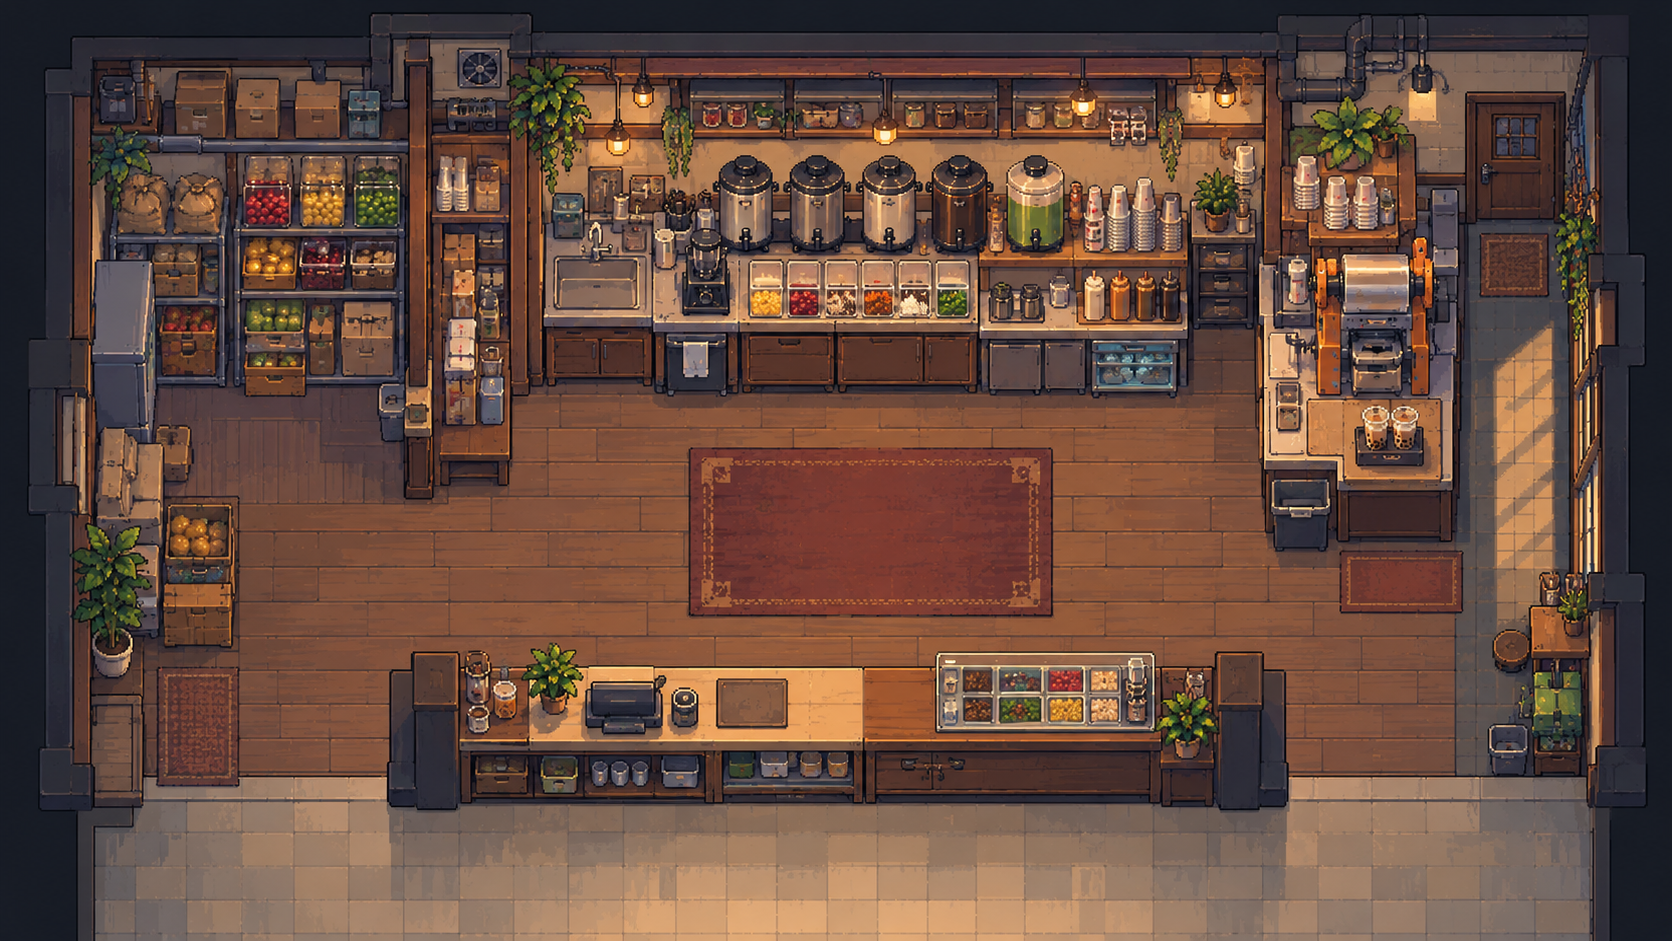
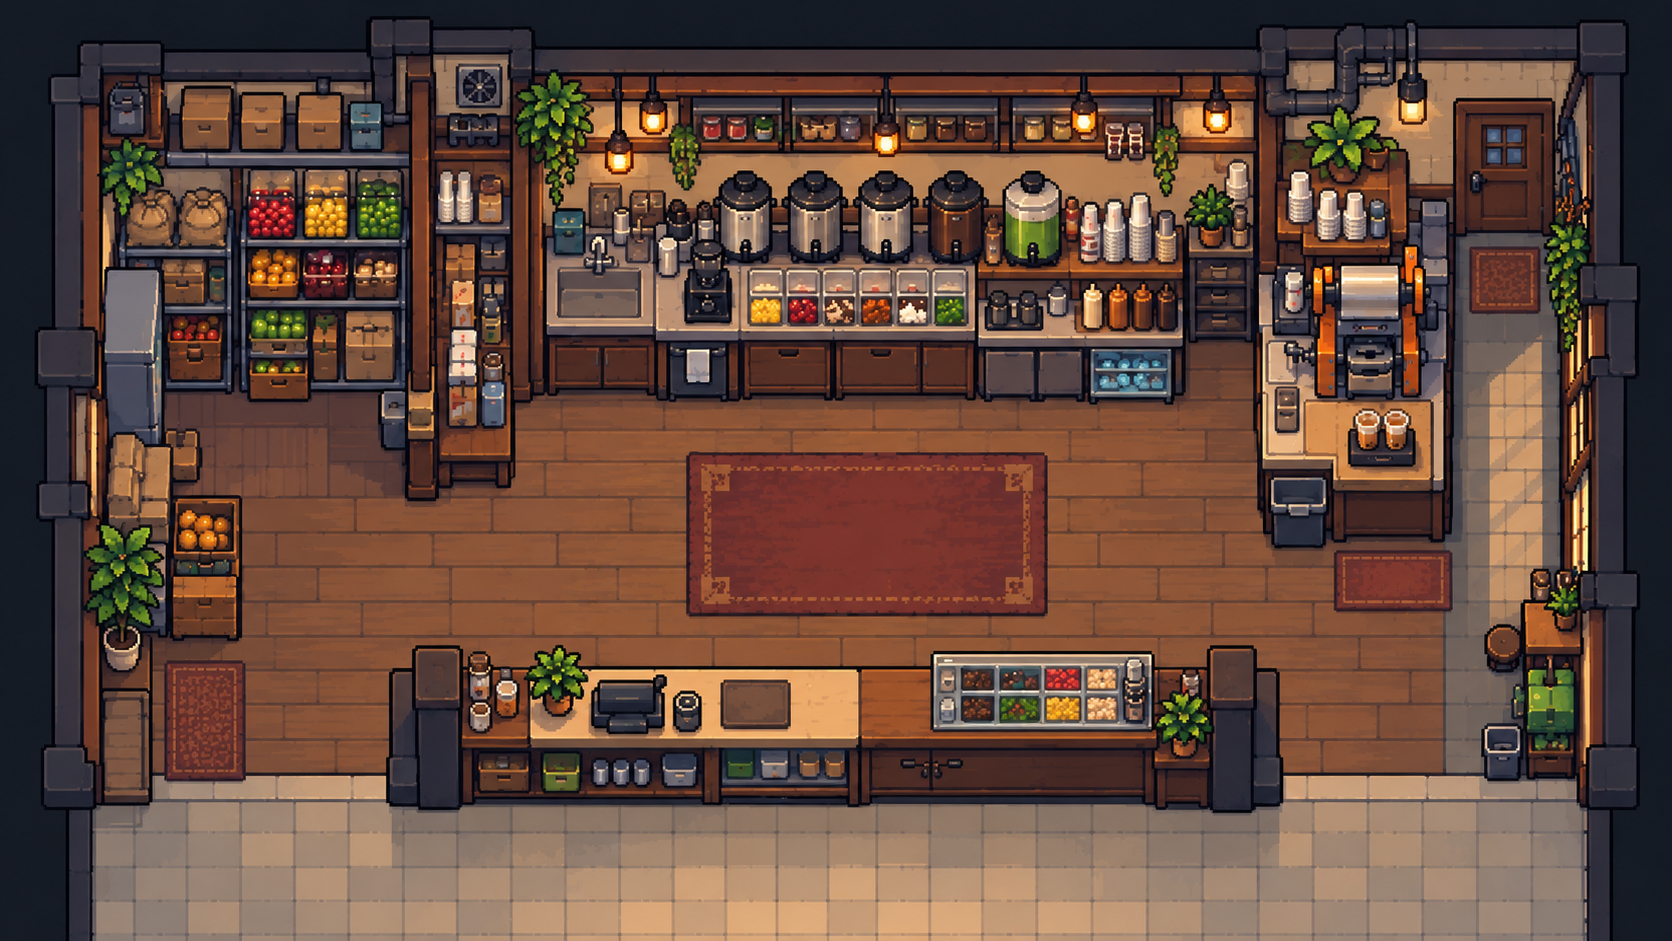
feat: update shop background and add bounded player follow camera

diff --git a/docs/milk_tea_mvp.md b/docs/milk_tea_mvp.md
@@ -1,6 +1,6 @@
 # 奶茶店 MVP
 
-Godot 4.7.2，运行 `src/core/main.tscn`（F6 或 F5）。沿用现有背景 `assets/map/milkTea/milkTea.png` 和 goblin 角色；未重新生成图片。
+Godot 4.7.2，运行 `src/core/main.tscn`（打开主场景后 F6，或直接 F5）。背景 `assets/map/milkTea/milkTea.png` 已替换为用户于 2026-10-16 提供的 1672 × 941 PNG；角色使用用户提供的四向精灵图，均直接保存原始附件，未重新生成图片。
 
 - WASD / 方向键：八方向移动，斜向不加速。
 - 左上仓库、上方制作台、下方订单板：靠近金色标记显示「按 E 交互」，E 打开对应信息界面。
@@ -9,14 +9,15 @@ Godot 4.7.2，运行 `src/core/main.tscn`（F6 或 F5）。沿用现有背景 `a
 
 ## 结构与坐标
 
-- `src/levels/milkTea/milk_tea_shop.tscn`：背景、出生点、固定全景镜头、15 个实体碰撞形状、三个交互组件实例。由 Godot MCP 创建并保存，可直接在编辑器中修改。
-- `src/gameplay/player/shop_player.*`：独立角色，`CharacterBody2D` 的 Floating 模式和 `move_and_slide()`。脚部圆形碰撞体；身体在脚部上方绘制。
+- `src/levels/milkTea/milk_tea_shop.tscn`：背景、出生点、15 个实体碰撞形状、三个交互组件实例，可直接在编辑器中修改。`get_world_bounds()` 提供背景世界范围；四面外墙在初始化时按图片尺寸与 `boundary_insets`（左、上、右、下）同步，并封闭底部侧墙缺口。
+- `src/gameplay/player/shop_player.*`：独立角色，`CharacterBody2D` 的 Floating 模式和 `move_and_slide()`。脚部横向胶囊碰撞体为 34 × 20 世界像素；显示缩放为 0.4，角色约 110 像素高，与门、柜台比例相符。四向动画说明见 [玩家素材说明](../assets/characters/player/README.md)。
+- `src/gameplay/player/bounded_follow_camera.gd`：角色子节点上的跟随相机，位置平滑速度为 8，默认缩放 0.75。由主场景注入背景世界范围；限制屏幕四边，窗口变宽或变高时自动提高最小缩放，避免视野超过背景。
 - `src/gameplay/interaction/interaction_point.*`：复用 `Area2D`，导出地点 ID、名称、说明；通过 `availability_changed` 和 `interacted` 信号通知协调组件。
 - `src/gameplay/interaction/shop_interaction.gd`：选择最近可交互地点，处理 E，并协调角色与 UI。新增地点可实例化组件，通过 `MilkTeaShop.get_interaction_points()` 自动接入。
 - `src/UI/milk_tea/shop_ui.*`：显示提示与信息弹窗，通过 `closed` 信号恢复角色。提示挂到 HudLayer，弹窗挂到 PopupLayer。
 - `MainGame` 装配依赖；保留原洞穴初始化分支，正式关卡不依赖调试组件。
 
-场景坐标以背景左上角为原点，1 世界单位 = 1 背景像素，图片 1672 × 941。镜头居中缩放到 640 × 360 的逻辑视口。碰撞覆盖墙体、柜台、货架、箱子和设备可见区域；背景仍为单张图片，不涉及 TileMap 格子或布局导入。物理层 1 = 环境、2 = 玩家，交互 Area 仅检测玩家层。
+场景坐标以背景左上角为原点，1 世界单位 = 1 背景像素，图片 1672 × 941。640 × 360 逻辑视口默认显示约 853 × 480 的世界范围，镜头随玩家移动并在背景边缘停止。碰撞覆盖墙体、柜台、货架、箱子和设备可见区域；顶部边界留出角色头部余量，角色完整图像保持在背景内。背景仍为单张图片，不涉及 TileMap 格子或布局导入。物理层 1 = 环境、2 = 玩家，交互 Area 仅检测玩家层。
 
 中文使用 SystemFont，优先 Microsoft YaHei / Noto Sans CJK SC；移植到没有中文系统字体的平台时需要随包提供中文字体。
 
@@ -24,15 +25,21 @@ Godot 4.7.2，运行 `src/core/main.tscn`（F6 或 F5）。沿用现有背景 `a
 
 ```powershell
 godot --headless --path . --script res://tests/verify_milk_tea_shop.gd
+godot --headless --path . --script res://tests/verify_player.gd
+godot --headless --path . --script res://tests/verify_shop_camera.gd
 ```
 
 验证实际输入移动、斜向速度、15 处物理碰撞、持续顶住柜台、基于实际物理空间的三个地点可达性、E 打开三个 UI、标题匹配、Esc 关闭、弹窗锁定移动和离开范围。渲染环境可追加 `-- --capture`，将场景和订单弹窗截图保存到 `.godot/milk_tea_verification/`。
 
-手动验收：从地毯走向三个金色标记，检查提示、E 打开内容、Esc / 按钮关闭；持续朝货架、制作设备、柜台和外墙移动，应被阻挡且可沿边滑动。
+相机测试覆盖跟随、平滑过程中四角限制、角色全图不越界、底部绕墙缺口、宽屏/竖屏尺寸变化，以及关卡平移后的世界坐标。渲染环境追加 `-- --capture` 可保存 `follow_camera.png`。
+
+手动验收：F5 从地毯走向三个金色标记，检查提示、E 打开内容、Esc / 按钮关闭；持续朝货架、制作设备、柜台和四侧外墙移动，应被阻挡且可沿边滑动。走动时镜头平滑跟随，接近四边后停止，不出现图片外的空白；改变窗口比例也应保持视野在背景内。
 
 ## 关键官方文档（4.7）
 
 - [CharacterBody2D](https://docs.godotengine.org/en/4.7/classes/class_characterbody2d.html)：俯视角使用 `MOTION_MODE_FLOATING`；在物理帧设置 velocity，再调用 `move_and_slide()`，无需再次乘 delta。
+- [Camera2D](https://docs.godotengine.org/en/4.7/classes/class_camera2d.html)：通过 `limit_*` 限制屏幕边缘；使用节点位置调整构图，保持 `offset` 为零以免越过限制；设置限制与出生点后重置平滑。
+- [Sprite2D.get_rect](https://docs.godotengine.org/en/4.7/classes/class_sprite2d.html#class-sprite2d-method-get-rect)：读取背景局部矩形并转换至世界坐标，供相机与边界初始化使用。
 - [Input.get_vector](https://docs.godotengine.org/en/4.7/classes/class_input.html#class-input-method-get-vector)：四个 InputMap action 产生长度不超过 1 的移动向量。
 - [Area2D](https://docs.godotengine.org/en/4.7/classes/class_area2d.html)：使用 body_entered / body_exited 信号，检测遵循 collision_mask；更新发生在物理步。
 - [Signals](https://docs.godotengine.org/en/4.7/getting_started/step_by_step/signals.html)：组件发出信号，由共同父场景装配的协调器连接，避免交互点引用 UI 内部层级。
